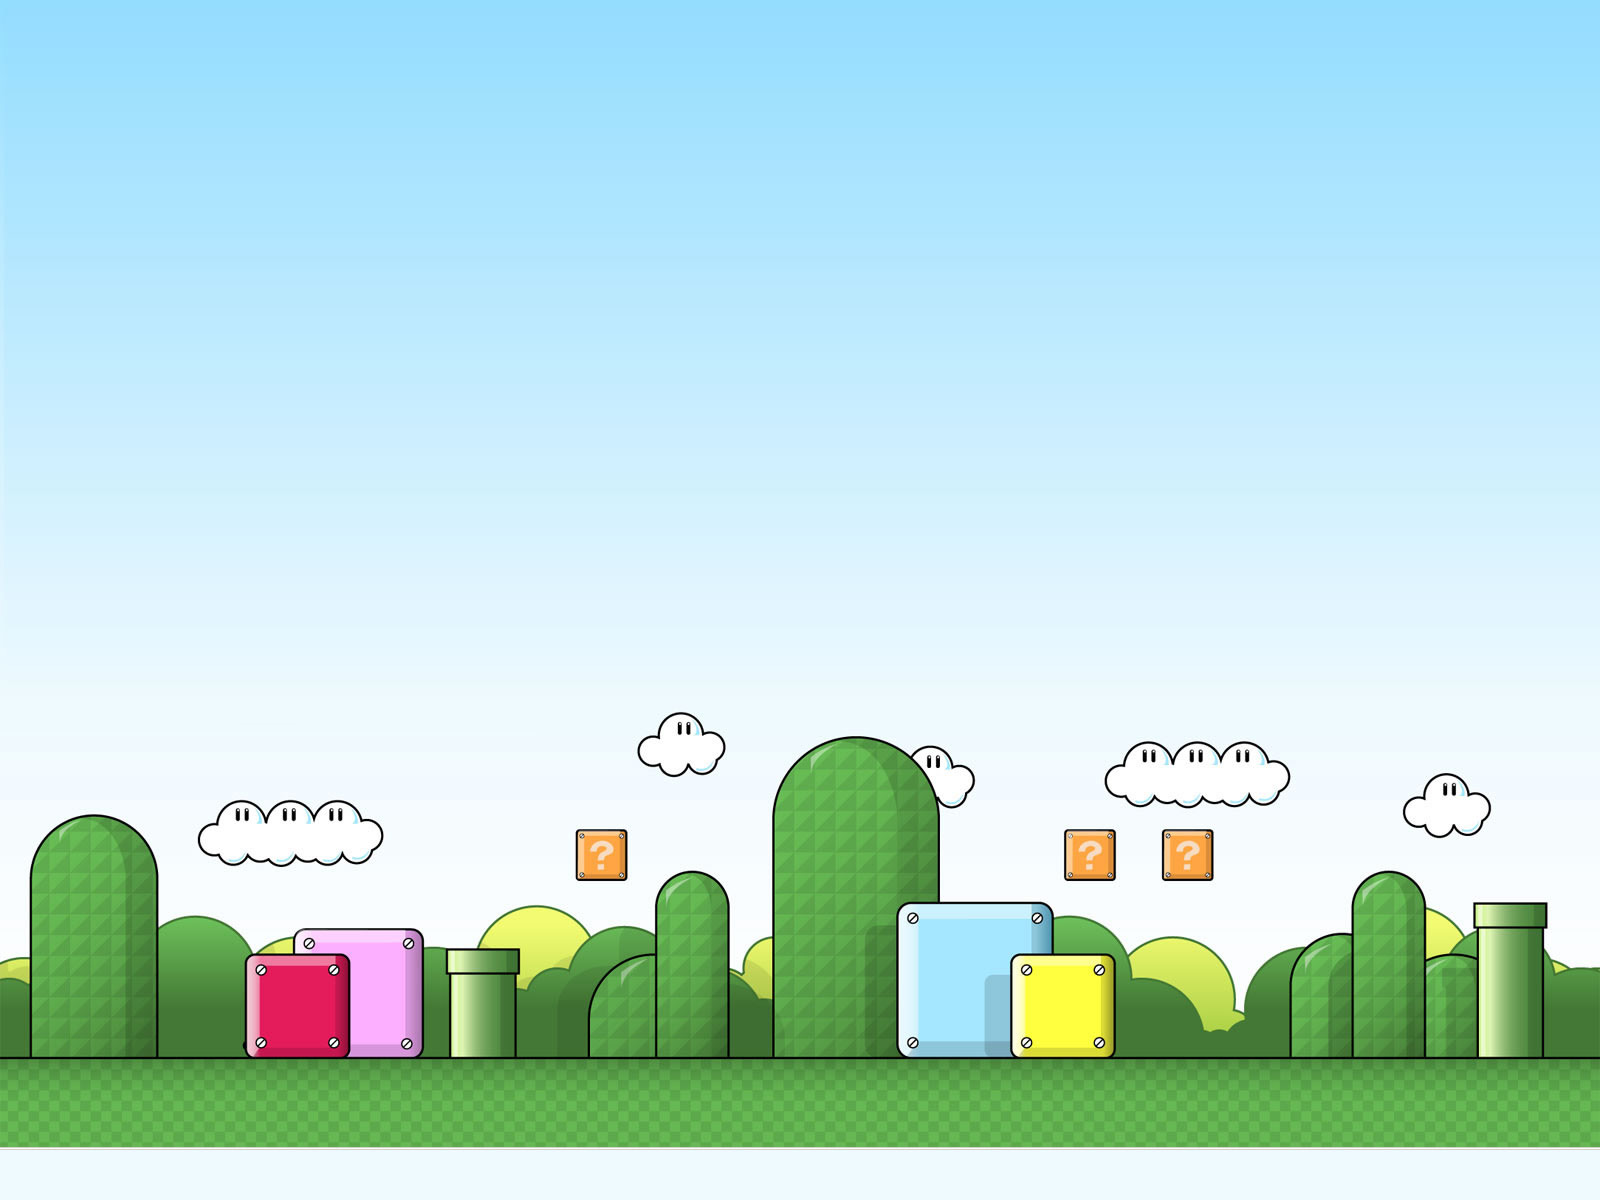
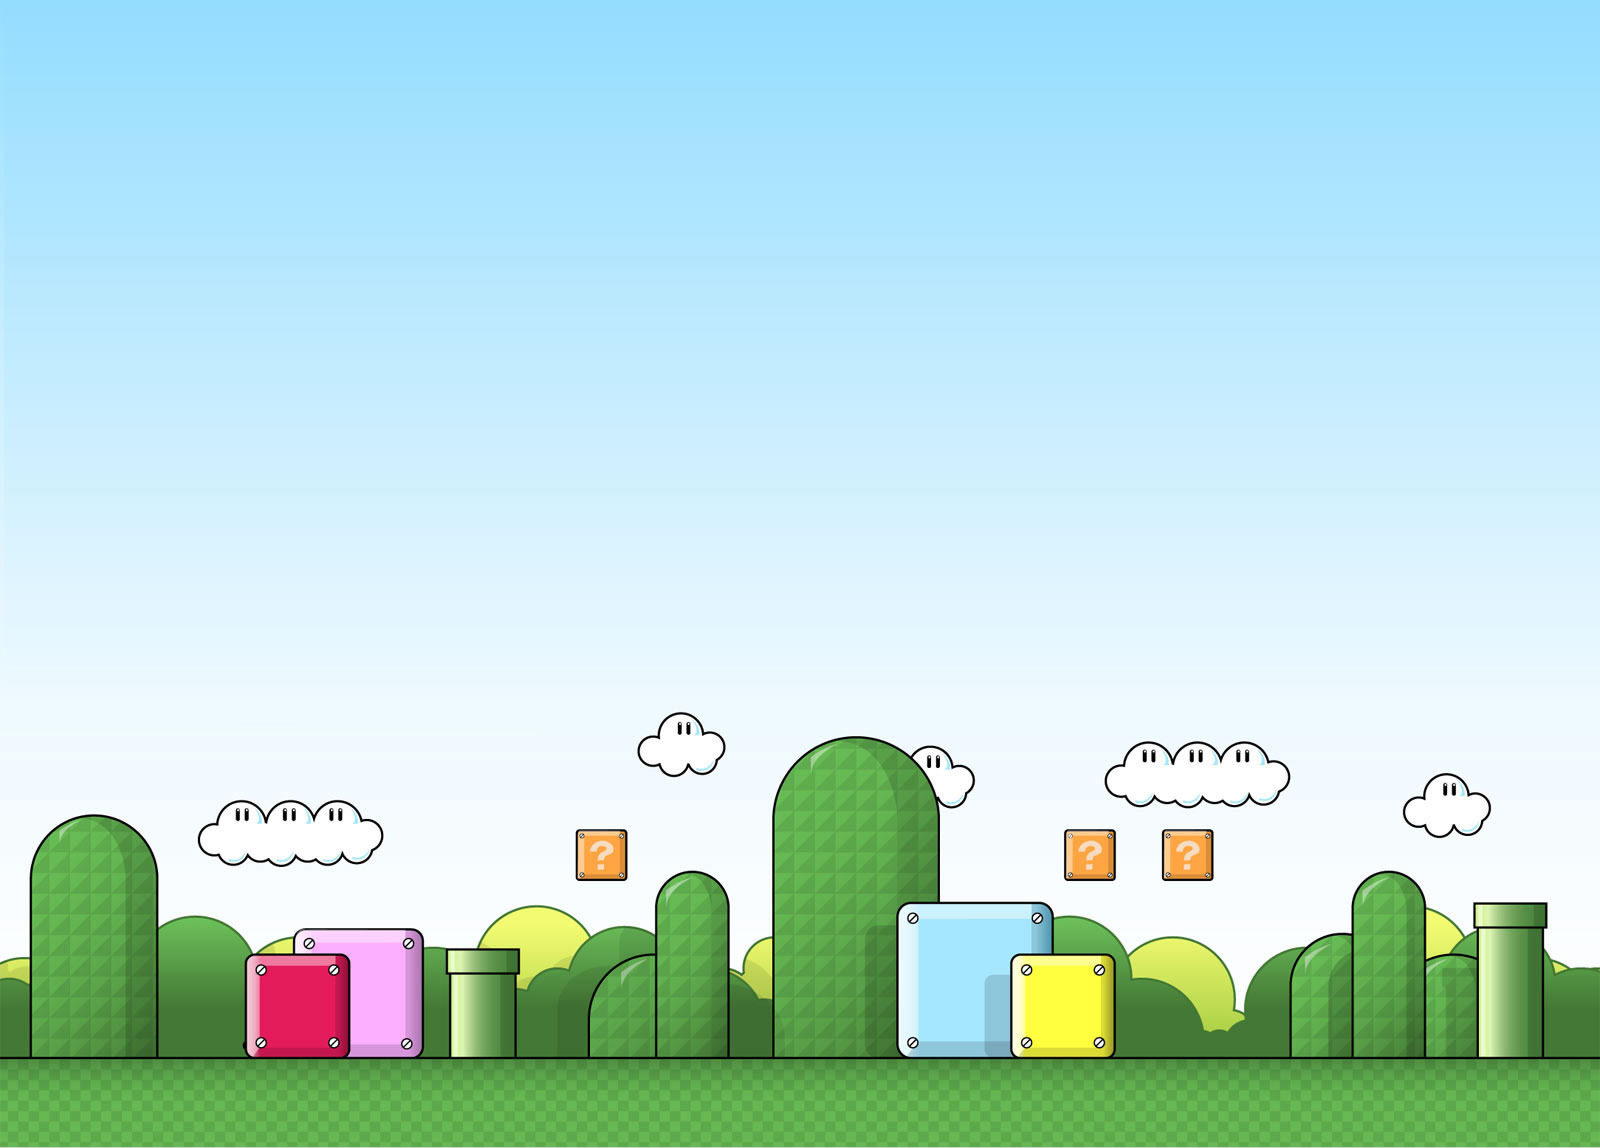
servlet Login

Changed region(s): [[0.0, 0.6098, 1.0, 1.0], [0.4062, 0.5793, 0.625, 0.7012]]

diff --git a/projet_mario_web/WebContent/assets/css/style.css b/projet_mario_web/WebContent/assets/css/style.css
@@ -4,43 +4,58 @@ body {
 	font-weight: 300;
 	color: #888;
 	line-height: 30px;
-	text-align: center;	 
-margin:0;
-  padding:0;
-  background: url("../img/backgrounds/1.jpg") no-repeat center fixed; 
-  background-repeat: repeat-x;
-  -webkit-background-size: cover; /* pour anciens Chrome et Safari */
+	text-align: center;
+	margin: 0;
+	padding: 0;
+	background: #94ddfe url("../img/backgrounds/1.jpg");
+	background-repeat: no-repeat;
+	background-attachment: fixed;
+	background-position: center bottom;
+	 -webkit-background-size: cover; /* pour anciens Chrome et Safari */
   background-size: cover; /* version standardisée */
 }
 
-.loading{
-	position:absolute;
-	width:325px;
-	height:300px;
+.loading {
+	position: absolute;
+	width: 325px;
+	height: 300px;
+}
+
+#test {
+	position: absolute;
+	top: 300px;
+	background-image: url("../img/backgrounds/nuage.png"); height : 220px;
+	width: 100%;
+	height: 220px
+}
+
+div#steam {
+	background-image: url('../img.backgrounds/nuage.png');
+	background-repeat: no-repeat;
+	background-position: left bottom;
+	-webkit-animation: slide 10s linear infinite;
+}
+
+@
+-webkit-keyframes slide {from { background-position:left0;
 	
 }
 
-#test{
-  position: absolute;
-  top:300px;
-  background-image: url("../img/backgrounds/nuage.png");
-  
-  height: 220px;
-  width: 100%;
+to {
+	background-position: left 100%;
 }
 
-div#steam { background-image: url('../img.backgrounds/nuage.png'); background-repeat: no-repeat; background-position: left bottom; -webkit-animation: slide 10s linear infinite; }
+}
+@
+-moz-keyframes slide {from { background-position:83%0;
+	
+}
 
-@-webkit-keyframes slide {
-	    from { background-position: left 0; }
-		to { background-position: left 100%; }
-	}
+to {
+	background-position: 83% 100%;
+}
 
-	@-moz-keyframes slide {
-	    from { background-position: 83% 0; }
-		to { background-position: 83% 100%; }
-	}
-
+}
 strong {
 	font-weight: 500;
 }

diff --git a/projet_mario_web/WebContent/assets/js/scripts.js b/projet_mario_web/WebContent/assets/js/scripts.js
@@ -44,12 +44,13 @@ jQuery(document).ready(function() {
     	});
     	
     });
-    
+    /*
     var x = 0;
     setInterval(function(){
         x-=1;
         $('body').css('background-position', x + 'px');
-    }, 50);
+    }, 100);
+    */
     
     
 });

diff --git a/projet_mario_web/src/be/ipl/servlets/Login.java b/projet_mario_web/src/be/ipl/servlets/Login.java
@@ -1,6 +1,8 @@
 package be.ipl.servlets;
 
 import java.io.IOException;
+import java.util.Timer;
+import java.util.TimerTask;
 
 import javax.ejb.EJB;
 import javax.servlet.ServletException;
@@ -9,8 +11,8 @@ import javax.servlet.http.HttpServlet;
 import javax.servlet.http.HttpServletRequest;
 import javax.servlet.http.HttpServletResponse;
 
+import be.ipl.projet_ejb.domaine.Joueur;
 import be.ipl.projet_ejb.usecases.GestionJoueurs;
-import be.ipl.projet_ejb.usecasesimpl.GestionJoueursImpl;
 
 /**
  * Servlet implementation class Login
@@ -50,8 +52,18 @@ public class Login extends HttpServlet {
 		String pseudo = request.getParameter("form-username");
 		String mdp = request.getParameter("form-password");
 
-		System.out.println(pseudo + " " + mdp);
-		
+		Joueur joueur = gestionJoueurs.creerJoueur(pseudo, mdp);
+
+		Timer timer = new Timer();
+		TimerTask task = new TimerTask() {
+
+			@Override
+			public void run() {
+				System.out.println(joueur.getPseudo());
+			}
+		};
+		timer.schedule(task, 30000);
+
 		getServletContext().getNamedDispatcher("attente.html").forward(request, response);
 
 	}
